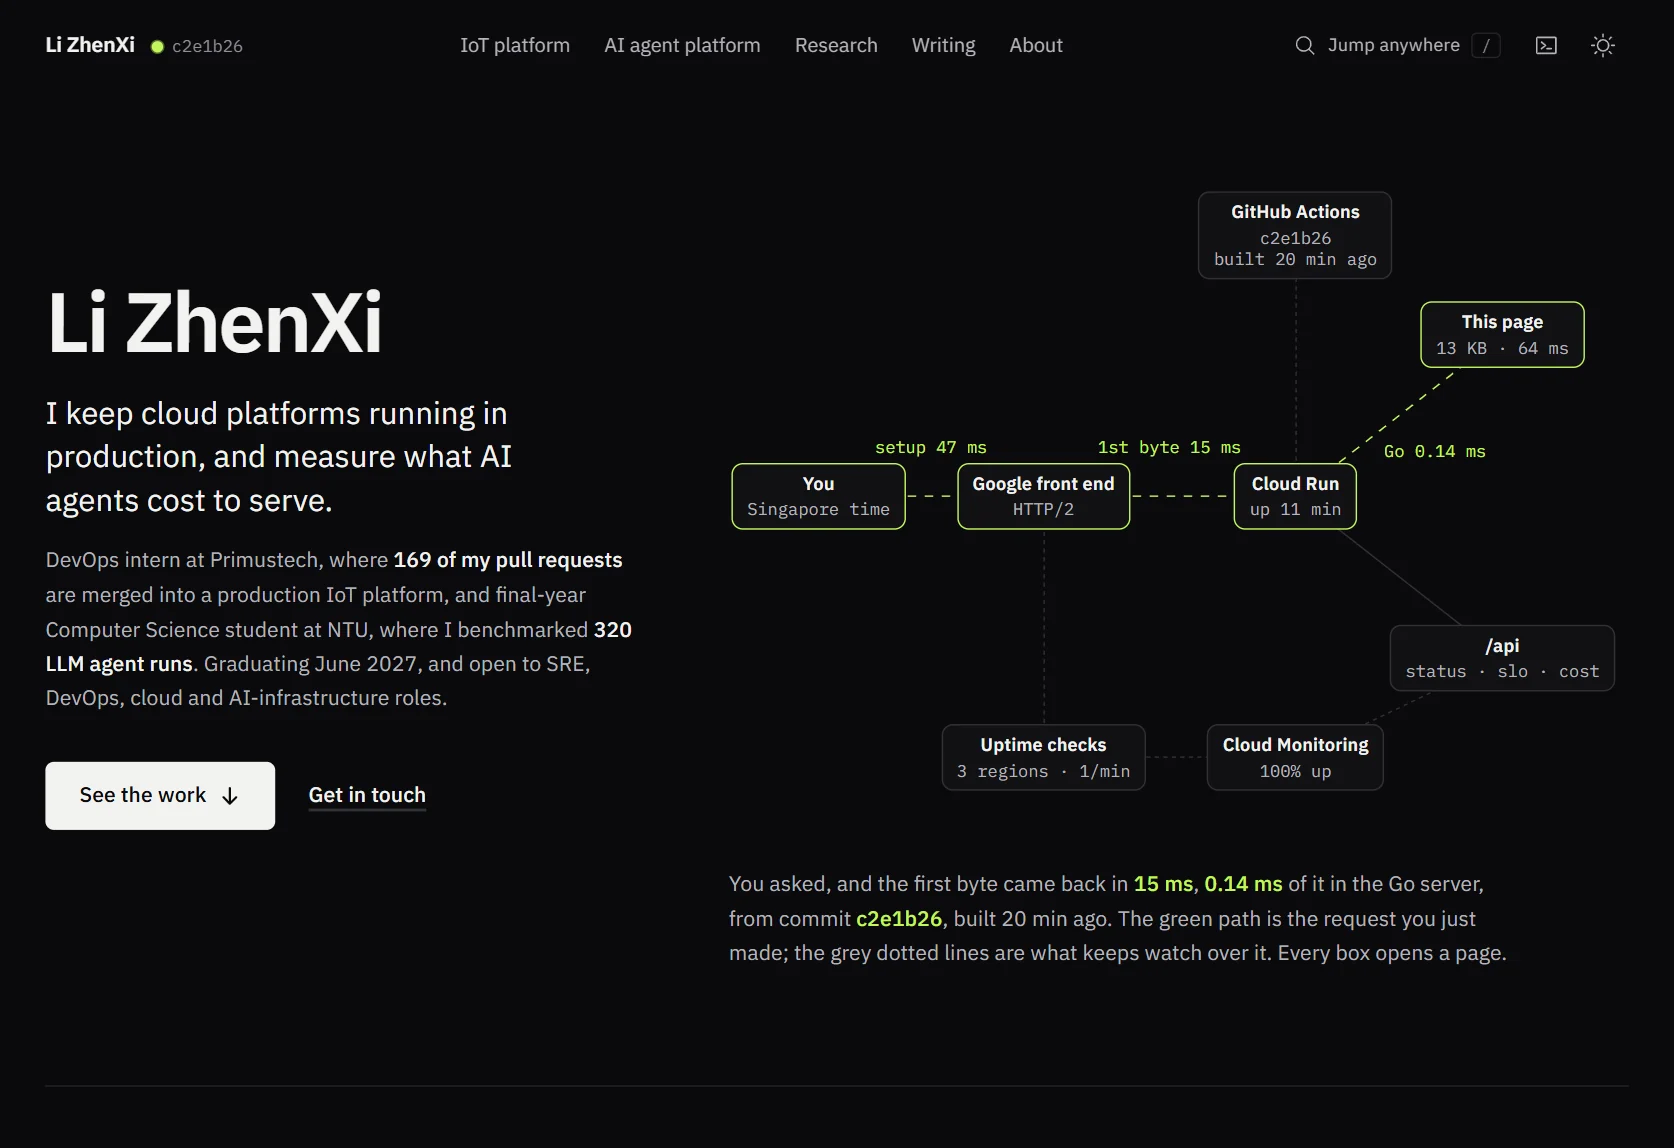
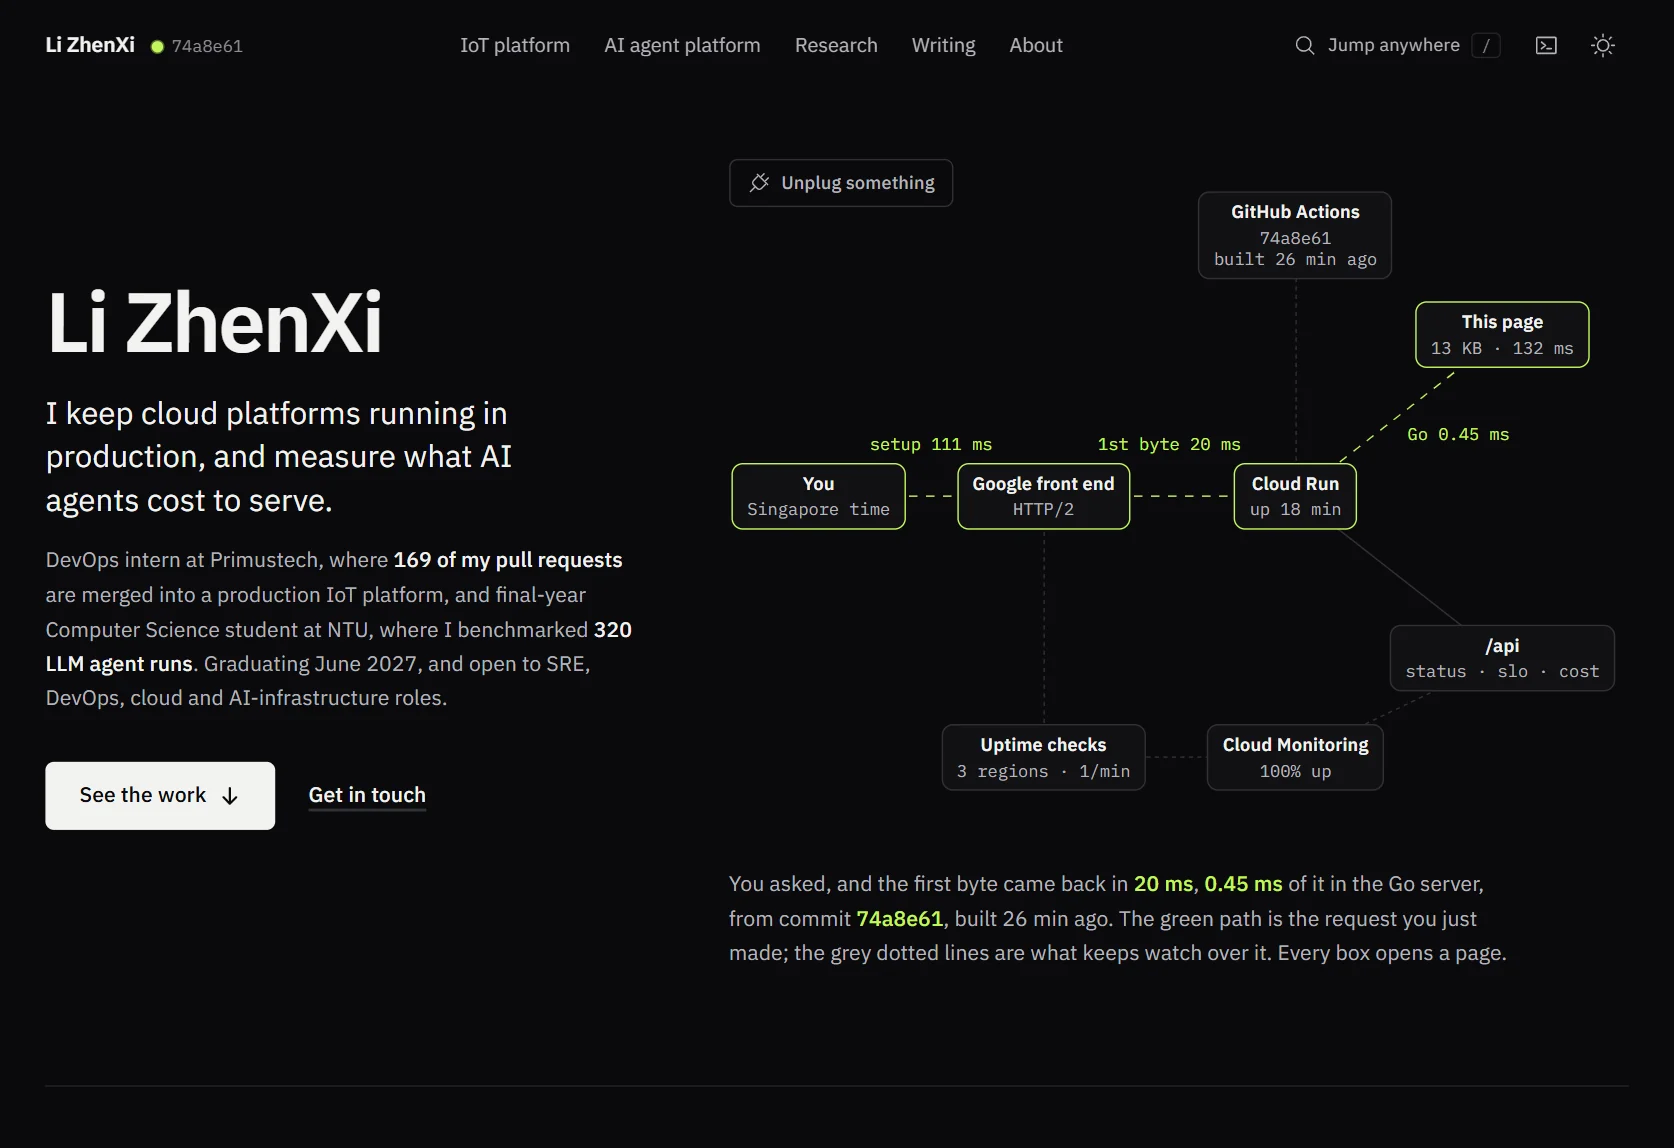
The README shows the map unplugged and the terminal
With the hero as it is now.

diff --git a/README.md b/README.md
@@ -50,6 +50,8 @@ server with one bug planted in it, real traffic, and a check that grades the fix
 | **Break it yourself** (`/break`): delays and 503s injected into your own requests on the live server, and four clients against them: give up, retry with jittered backoff, a circuit breaker, hedging. | **What it costs** (`/cost`): the month so far as a receipt, from the service's own meters at list prices, with where the money goes, a what-if for a busy day, and what caps the bill. |
 | [![A console on the site calling its own MCP server](docs/screenshots/agents.webp)](https://portfolio-emsghin2iq-as.a.run.app/agents) | [![The site's claims, sorted by how they can be checked](docs/screenshots/evidence.webp)](https://portfolio-emsghin2iq-as.a.run.app/evidence) |
 | **Ask it with your own agent** (`/agents`): the site is an MCP server. Add one URL to Claude, Cursor or any MCP client, or call the tools from the console on the page. `curl` on the home page gets a text card. | **Evidence** (`/evidence`): every headline claim, sorted by whether you can check it live, on public record, or not at all because the work is private. The first two kinds are tested, each claim shows what its test saw, and one claim is false on purpose. |
+| [![The map with Cloud Run unplugged, and what that costs](docs/screenshots/unplug.webp)](https://portfolio-emsghin2iq-as.a.run.app/) | [![The site's terminal, with the SLO and the deploys read from the live API](docs/screenshots/terminal.webp)](https://portfolio-emsghin2iq-as.a.run.app/?terminal) |
+| **Unplug something** (the map on the home page): take one part of the site away in your own tab. Every page then shows what it would really do without it, and the caption says what is lost, what still works, how it comes back and why that is accepted. | **The terminal** (press `` ` `` anywhere, or `/?terminal`): a shell in the page over the live API, with the status, the SLO, the bill, the deploys and the claims to ask for, and the on-call drill as text. |
 
 ```
 Browser ──> Cloud Run: one Go binary ──> Next.js static export  (/, /_next/*, /work/*, /oncall, ...)
@@ -63,7 +65,7 @@ Cloud Monitoring uptime checks, 3 regions ──> /api/health; /api/slo reads th
 CI:     lint, typecheck, tests, parity; build image once ──> smoke, Lighthouse, CVE gate; browser tests ──> push, attest SBOM + provenance
 Deploy: find that digest ──> verify attestations ──> error-budget gate ──> new revision, no traffic ──> smoke test it
         ──> traffic to it ──> smoke test live ──> (fails?) traffic back to the previous revision ──> GitHub release
-Claims: after each deploy and on a schedule, test what /evidence claims ──> a check on the released commit ──> /api/claims
+Claims: after each deploy and on a schedule, test what /evidence claims ──> the run's annotations on GitHub ──> /api/claims
 Terraform ──> Cloud Run, Artifact Registry, Secret Manager, uptime check, keyless GitHub OIDC deploys
 ```
 
@@ -72,7 +74,7 @@ Terraform ──> Cloud Run, Artifact Registry, Secret Manager, uptime check, ke
 | Area | Highlights |
 |---|---|
 | **Front end** (`web/`) | Next.js 16, React 19, Tailwind CSS v4, Motion, three.js via react-three-fiber. A hero that maps the visitor's own request live (connection setup, first byte and time in Go from the page's own timing, the instance and commit that answered, the uptime checks and SLO watching it), as a list on phones, with six parts that can be unplugged in the visitor's own tab; the 3D "service mesh" hero it replaced is kept on `/v1`; seven playable case studies (pipeline gates with an approval step, a Kafka topic reaper, a ZooKeeper quorum alert, GKE pod and node autoscaling across zones, a remote-control lane with its safety guards, a cache password rolled out in two steps, an agent request's path through the AI platform); **Inside the IoT platform** (hop-by-hop traffic paths and tunnels; SLIs, SLOs and error budgets on a Grafana-style board with a replayable incident; a cause-alert playground for eight failure modes; the investigation route and runbook; a seven-move cost review); **the AI agent platform** (an animated system map with five request journeys, a step-by-step list on small screens, and a "what I own" lens, the AI infrastructure stack layer by layer, a Langfuse-style request trace, what I measure on an LLM service); **research** (FYP charts, where an agent's time goes and what each MCP server costs per call, a prefix-cache explainer, the GPU-over-SSH setup, the Apptainer backend that runs the stack on a supercomputer without root); a page per case study, four postmortems from running this site and three longer write-ups (`/writing/<slug>`), each with its own generated share card, and a sitemap; an **on-call drill** (`/oncall`) that scores a simulated incident response and writes its postmortem; **break it yourself** (`/break`), fault injection on the live server with four client strategies drawn attempt by attempt; **what it costs** (`/cost`), a receipt from the service's own meters with a what-if for traffic spikes; a **capacity lab** in the research chapter for serving agents on one GPU; a **Recently** list on the home page (pull requests merged or in review, releases and new writing, newest first and current between deploys, with the site's own latest deploy under it); a 60-second guided tour (`/?tour`); a **status page** (`/status`) with live state, the site's own SLO and 30-day availability, its DORA metrics, a replay of the latest deploy (every step of the run at its real start and length, sped up), how the site is watched, the incident history and an Atom feed; a **changelog** (`/changelog`) of every release and the commits it shipped, written by the pipeline; twelve **architecture decision records** (`/decisions`, also in `docs/adr`); an **evidence** page (`/evidence`) that sorts the site's claims by whether you can check them live, on public record, or not at all because the work is private, and shows what the test of each saw; a page **for agents** (`/agents`) with a console that sends real MCP requests, `/llms.txt`, and a Markdown copy of every case study, write-up and postmortem under `/md/`; a trace of the visitor's own page load, and of each Ask answer; a **terminal** (press `` ` ``, or `/?terminal`): a shell in the page whose commands (`status`, `slo`, `cost`, `deploys`, `claims`, `ask`, `mcp`, `curl`, `cat work/gke.md`) all read the live API, with tab completion and history, loaded only when first opened; a ⌘K command palette that searches by topic and reaches every page; the chapters in the top bar, or as labelled tabs along the bottom on phones; light and dark themes, set in IBM Plex, with Source Serif 4 for the long reads. Content renders without JavaScript; motion respects `prefers-reduced-motion`. |
-| **Back end** (`api/`) | Go 1.27, standard library `net/http`. Serves the static export with immutable caching, content validators (so a rollback reaches a browser that holds the newer page) and build-time brotli/gzip (no per-request compression CPU for pages; API answers of a kilobyte or more are gzipped as they go out). What is slow to read, from Cloud Monitoring and GitHub, is read again in the uptime checks' requests (`internal/fresh`), so visitors are answered from the last reading at once. It serves `/api/status` (live uptime and latency percentiles), `/api/slo` (this site's own availability and error budget, read from Cloud Monitoring with the metadata server's token, standard library only), `/api/cost` (this month's usage from Cloud Monitoring, priced at list prices, read about hourly), `/api/activity` (the home page's Recently list: my pull requests merged or in review in the public repositories it names, never anywhere else, and my releases, baked in at build time and refreshed from GitHub's public API about hourly, keeping the last good list when GitHub refuses), `/api/claims` (what became of each claim on `/evidence` when it was last tested, read back from the check GitHub keeps on the released commit), `/api/lab/echo` (the delays and 503s a visitor asks for, on their own requests only, capped and rate limited, kept out of the SLO and the live latency), `/api/ask` (BM25 retrieval over the site's own facts, optional LLM on top, cached, rate limited, prompt-injection fenced; traced with OpenTelemetry, exported to Cloud Trace by a small REST exporter, and each answer carries its own trace), `/api/contact` (validation, rate limit, a hidden field that marks likely spam and drops nothing, and delivery to a Discord or Slack webhook before the visitor is told it was sent; a browser without JavaScript can send the form too), `/api/badge/uptime` (a shields.io endpoint for the uptime badge: the 30-day window, or the time since measuring began until it fills), `/api/card.svg` (the live card on my GitHub profile: commit, uptime, error budget, release policy and DORA numbers, drawn by the server itself in light and dark; `/api/card.txt` is the same card as text, and `curl` on the home page gets it instead of HTML), `/api/map.svg` (an animated map of the site's own request path with this instance's live numbers, also for the profile), and `/mcp`: the site as a **Model Context Protocol server** with five read-only tools (`ask`, `search_facts`, `list_topics`, `get_status`, `get_delivery`) over the same facts and live numbers, stateless, speaking the 2026-07-28 revision and the older handshake, with no SDK and no model of its own. `Server-Timing` on every response (server time, Cloud Run revision, and process age on an instance's first visitor request, which the page uses to say "you woke this server up"). CSP and security headers, request IDs, structured logs, graceful shutdown. |
+| **Back end** (`api/`) | Go 1.27, standard library `net/http`. Serves the static export with immutable caching, content validators (so a rollback reaches a browser that holds the newer page) and build-time brotli/gzip (no per-request compression CPU for pages; API answers of a kilobyte or more are gzipped as they go out). What is slow to read, from Cloud Monitoring and GitHub, is read again in the uptime checks' requests (`internal/fresh`), so visitors are answered from the last reading at once. It serves `/api/status` (live uptime and latency percentiles), `/api/slo` (this site's own availability and error budget, read from Cloud Monitoring with the metadata server's token, standard library only), `/api/cost` (this month's usage from Cloud Monitoring, priced at list prices, read about hourly), `/api/activity` (the home page's Recently list: my pull requests merged or in review in the public repositories it names, never anywhere else, and my releases, baked in at build time and refreshed from GitHub's public API about hourly, keeping the last good list when GitHub refuses), `/api/claims` (what became of each claim on `/evidence` when it was last tested, read back from GitHub's record of the run), `/api/lab/echo` (the delays and 503s a visitor asks for, on their own requests only, capped and rate limited, kept out of the SLO and the live latency), `/api/ask` (BM25 retrieval over the site's own facts, optional LLM on top, cached, rate limited, prompt-injection fenced; traced with OpenTelemetry, exported to Cloud Trace by a small REST exporter, and each answer carries its own trace), `/api/contact` (validation, rate limit, a hidden field that marks likely spam and drops nothing, and delivery to a Discord or Slack webhook before the visitor is told it was sent; a browser without JavaScript can send the form too), `/api/badge/uptime` (a shields.io endpoint for the uptime badge: the 30-day window, or the time since measuring began until it fills), `/api/card.svg` (the live card on my GitHub profile: commit, uptime, error budget, release policy and DORA numbers, drawn by the server itself in light and dark; `/api/card.txt` is the same card as text, and `curl` on the home page gets it instead of HTML), `/api/map.svg` (an animated map of the site's own request path with this instance's live numbers, also for the profile), and `/mcp`: the site as a **Model Context Protocol server** with five read-only tools (`ask`, `search_facts`, `list_topics`, `get_status`, `get_delivery`) over the same facts and live numbers, stateless, speaking the 2026-07-28 revision and the older handshake, with no SDK and no model of its own. `Server-Timing` on every response (server time, Cloud Run revision, and process age on an instance's first visitor request, which the page uses to say "you woke this server up"). CSP and security headers, request IDs, structured logs, graceful shutdown. |
 | **Reliability** | A real SLO for the site itself: 99.9% over 30 days, measured by Google Cloud uptime checks every minute from three continents and shown on the page with the error budget left. For the local stack: Prometheus metrics with bounded route labels, recording rules for a 99.5% request SLO, a fast-burn alert that needs both the last hour and the last 5 minutes above 14.4x, latency and abuse alerts (`deploy/prometheus/rules.yml`), and a provisioned Grafana dashboard (`deploy/grafana`). |
 | **Delivery** | Multi-stage Dockerfile to a distroless, non-root image of about 50 MB. GitHub Actions: lint, typecheck, build, `go vet`, race-detector tests, a TypeScript/Go parity check, container smoke test, end-to-end tests in Chrome (`e2e/`), Lighthouse budgets and a CRITICAL-CVE gate, with every action pinned to a commit SHA. The image is built once: the tests run on it side by side, and CI pushes it only after every one passes and attests its SBOM and build provenance. The deploy refuses an image whose attestations don't verify, holds the release if the site's own error budget is spent (unless the commit is marked `Reliability-fix:`), starts the new revision with no traffic and smoke-tests it at its own URL, then moves traffic and checks again, rolling back to the previous revision on its own unless that passes; a manual **rollback drill** rehearses exactly that in production. Every release becomes a GitHub release with its SBOM and provenance attached. A workflow then tests the site's claims against the live site (`claims/`), and again through the day. Keyless via Workload Identity Federation; only pushes to `main` in this repository deploy, never a fork's pull request. The production image's base images pinned by digest, Dependabot for updates, CodeQL and OpenSSF Scorecard on every push to `main`, Go fuzz tests for the inputs visitors control. |
 | **Infrastructure** (`infra/`) | Terraform for Cloud Run (scale to zero, probes, least-privilege runtime identity), Artifact Registry with cleanup policies, Secret Manager for the contact webhook and the optional LLM key, the uptime check behind the SLO (`infra/slo.tf`), Cloud Trace write access for the runtime identity (`infra/tracing.tf`), a read-only identity for the scheduled contact checks (`infra/watch.tf`), and a GitHub OIDC pool limited to this repository's `main` branch. |
